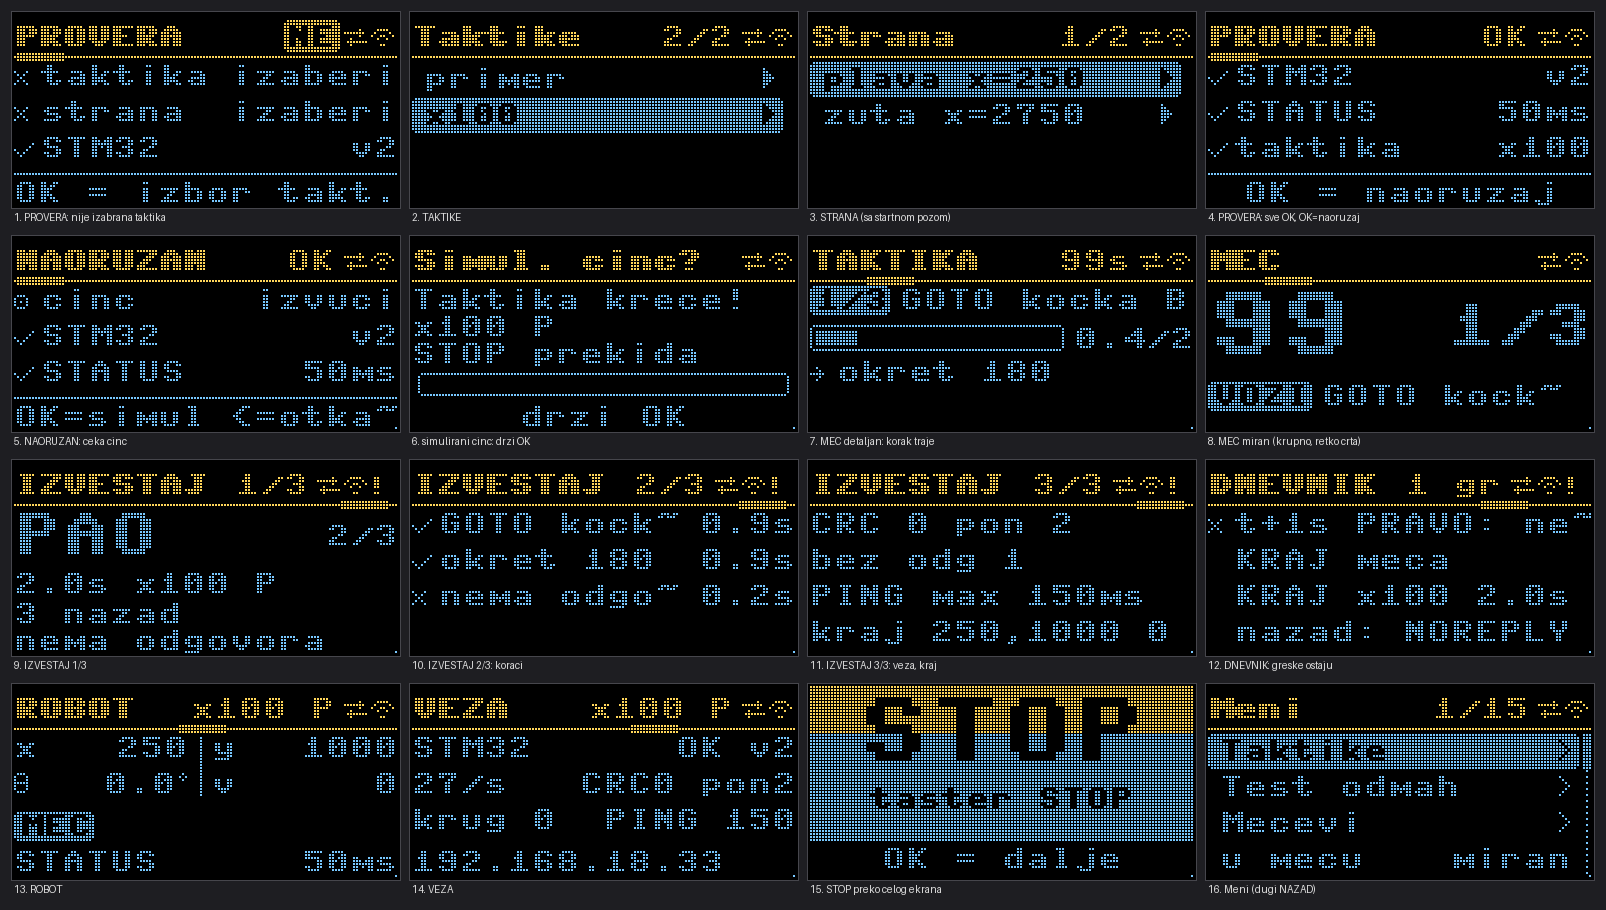
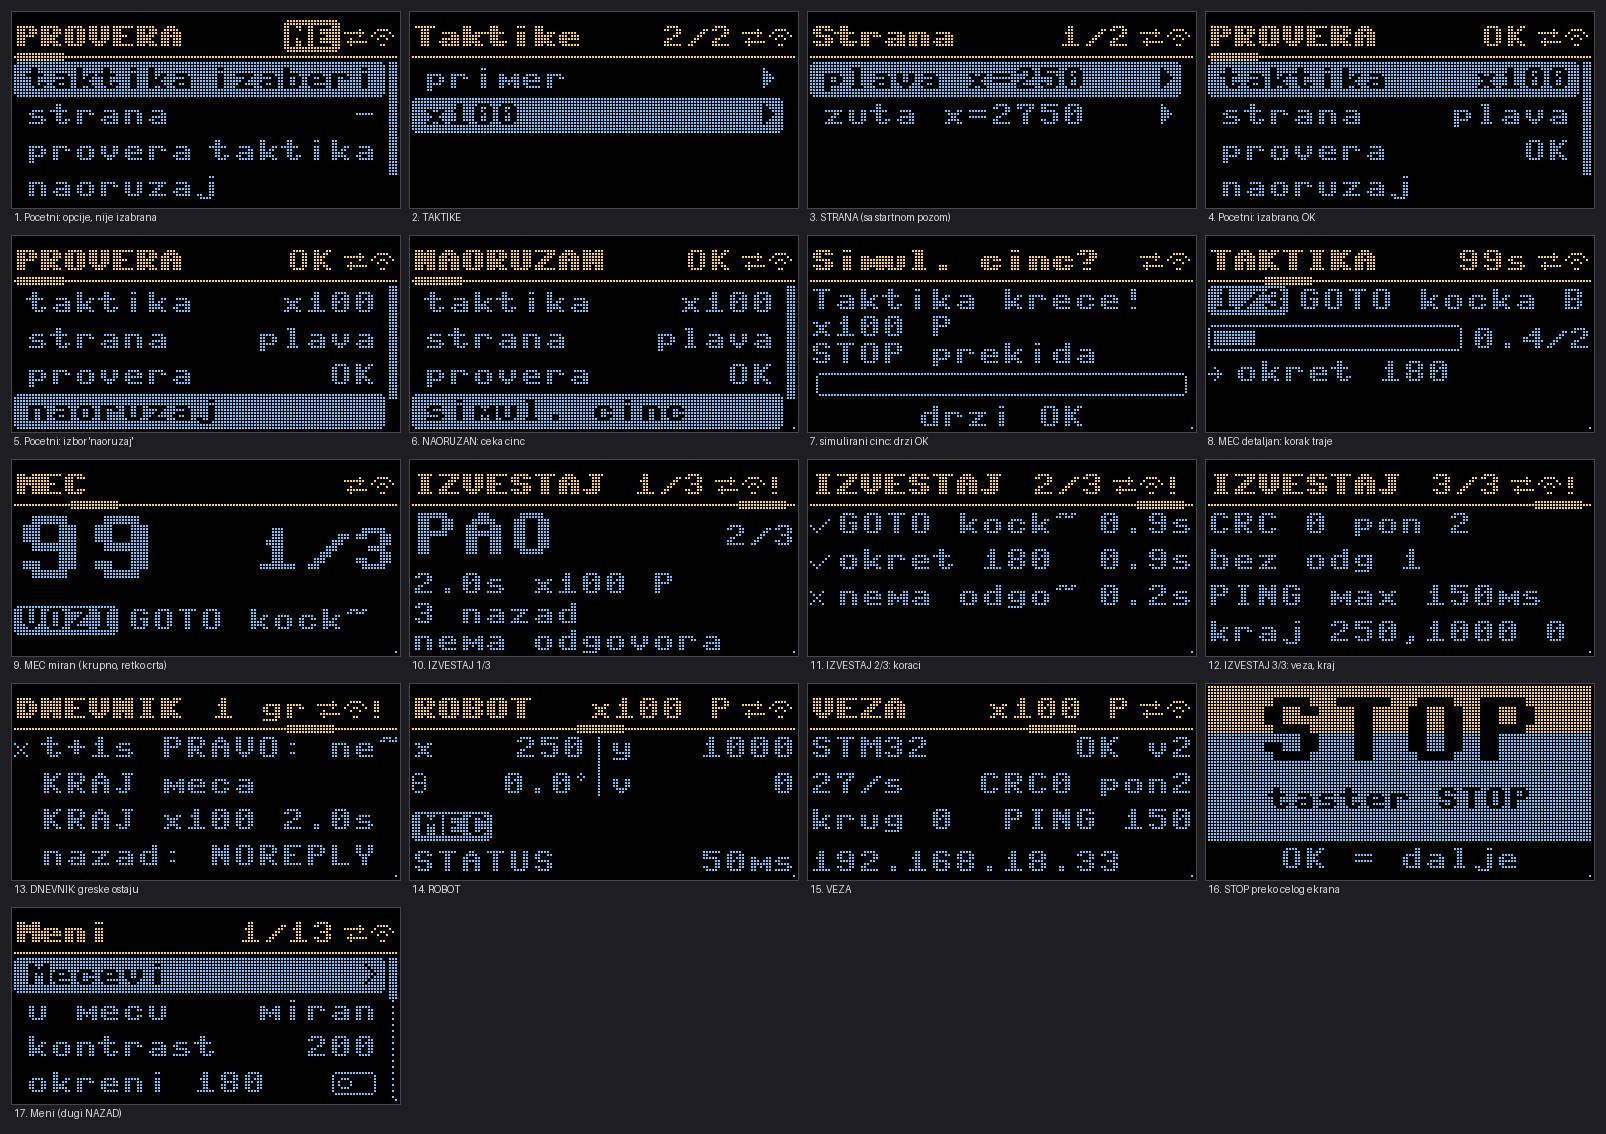
ESP: početni ekran sa opcijama (taktika, strana, provera, naoruzaj, test)
Taktika i strana se biraju na početnom ekranu, ne u meniju. Okret enkodera pomera izbor
opcije; posle poslednje ide na sledeće stranice, unazad se vraća na poslednju opciju.
Kad je robot naoružan: simulirani činč (drži OK) i otkaži; taktika i strana su zaključane.
Meni (dugi NAZAD) ima samo podešavanja i mečeve.

diff --git a/ESP32/lib/pages.py b/ESP32/lib/pages.py
@@ -64,55 +64,140 @@ class Page:
         pass
 
 
-# ---------------- PROVERA: može li da krene ----------------
+# ---------------- PROVERA: početni ekran sa opcijama ----------------
 
 class Provera(Page):
+    """Početni ekran: lista opcija (taktika, strana, provera, naoružaj, test). Okret enkodera
+    pomera izbor; posle poslednjeg reda ide na sledeću stranicu, unazad se vraća na poslednji red."""
     name = "PROVERA"
     live_ms = 300
 
+    def __init__(self, app):
+        super().__init__(app)
+        self.sel = self.top = 0
+
     def title(self):
-        m = self.app.match
-        return "NAORUZAN" if m.armed else "PROVERA"
+        return "NAORUZAN" if self.app.match.armed else "PROVERA"
 
     def right(self):
         ok = self.app.check()[0]
         return ("OK", False) if ok else ("NE", True)
 
-    def ok(self, u):
-        a = self.app
-        m = a.match
+    def rows(self):
+        """[(natpis, vrednost, radnja)] za trenutno stanje."""
+        a, m = self.app, self.app.match
+        ok, items = a.check()
+        bad = [i for i in items if i[0] == "ne"]
+        summary = bad[0][1] if bad else ("OK" if ok else "upoz")    # NE je u naslovu
+        side = a.st["sel_side"] or "-"
+        rows = [("taktika", a.st["sel_tactic"] or "izaberi", self.do_tactic),
+                ("strana", side, self.do_side),
+                ("provera", summary, self.do_check)]
         if m.armed:
-            u.push(ui.Confirm("Simul. cinc", ["Taktika krece!", "%s %s" % (m.tactic, T.SIDE.get(m.side, "")),
-                                              "STOP prekida"], lambda u2: m.simulate_cord()))
-        elif not a.st["sel_tactic"] or not a.st["sel_side"]:
-            u.push(a.tactics_menu())
+            rows += [("simul. cinc", "", self.do_cord), ("otkazi", "", self.do_cancel)]
+        else:
+            rows += [("naoruzaj", "", self.do_arm), ("test odmah", "", self.do_test)]
+        return rows
+
+    def scroll(self, n):
+        """Pomeri izbor; vraća koliko koraka "preliva" na susedne stranice (0 = ostali smo ovde)."""
+        last = len(self.rows()) - 1
+        s = self.sel + n
+        if s > last:
+            self.sel = last
+            return s - last
+        if s < 0:
+            self.sel = 0
+            return s
+        self.sel = s
+        if self.sel < self.top:
+            self.top = self.sel
+        elif self.sel >= self.top + 4:
+            self.top = self.sel - 3
+        return 0
+
+    def enter_from_end(self):
+        self.sel = len(self.rows()) - 1
+        self.top = max(0, self.sel - 3)
+
+    def ok(self, u):
+        rows = self.rows()
+        self.sel = min(self.sel, len(rows) - 1)
+        rows[self.sel][2](u)
+
+    def back(self, u):
+        if self.app.match.armed:
+            self.do_cancel(u)
+        return True
+
+    # ---- radnje ----
+
+    def locked(self, u):
+        if self.app.match.armed:
+            u.toast("zakljucano u mecu")
+            return True
+        return False
+
+    def do_tactic(self, u):
+        if not self.locked(u):
+            u.push(self.app.tactics_menu())
+
+    def do_side(self, u):
+        if not self.locked(u):
+            sides = ("plava", "zuta")
+            cur = self.app.st["sel_side"]
+            self.app.select(side=sides[(sides.index(cur) + 1) % 2] if cur in sides else sides[0])
+
+    def do_check(self, u):
+        items = self.app.check()[1]
+        u.push(ui.Menu("Provera", [ui.Info("%s %s" % ({"ok": "+", "ne": "x", "upoz": "!", "ceka": "o"}[st], lb),
+                                           (lambda v: lambda: v)(val)) for st, lb, val in items]))
+
+    def do_arm(self, u):
+        a = self.app
+        if not a.st["sel_tactic"] or not a.st["sel_side"]:
+            u.toast("izaberi taktiku")
         elif a.check()[0]:
             a.arm()
         else:
             u.toast("prvo popravi")
 
-    def back(self, u):
-        if self.app.match.armed:
-            self.app.match.cancel()
-            u.toast("otkazano")
-        return True
+    def do_test(self, u):
+        a = self.app
+        name, side = a.st["sel_tactic"], a.st["sel_side"]
+        if not name:
+            return u.toast("izaberi taktiku")
+        u.push(ui.Confirm("Test", ["%s %s" % (name, side or ""), "POKRECE MOTORE", "STOP prekida"],
+                          lambda u2: a.start_tactic(name, side)))
+
+    def do_cord(self, u):
+        m = self.app.match
+        u.push(ui.Confirm("Simul. cinc", ["Taktika krece!", "%s %s" % (m.tactic, T.SIDE.get(m.side, "")),
+                                          "STOP prekida"], lambda u2: m.simulate_cord()))
+
+    def do_cancel(self, u):
+        self.app.match.cancel()
+        u.toast("otkazano")
 
     def draw(self, u, fb, r, s):
-        ok, items = self.app.check()
-        for i, (st, label, val) in enumerate(items[:3]):
-            y = R1 + 12 * i
-            icon(fb, MARK[st], 0, y + 1)
-            fb.text(fit(label, 7), 9, y, 1)
-            text_right(fb, fit(val, 8), ui.W, y, 1)
-        m = self.app.match
-        if m.armed:
-            action_bar(fb, "OK=simul <=otkazi")
-        elif not self.app.st["sel_tactic"] or not self.app.st["sel_side"]:
-            action_bar(fb, "OK = izbor takt.")
-        elif ok:
-            action_bar(fb, "OK = naoruzaj")
-        else:
-            action_bar(fb, "popravi gore")
+        rows = self.rows()
+        self.sel = min(self.sel, len(rows) - 1)
+        for i in range(4):
+            k = self.top + i
+            if k >= len(rows):
+                break
+            label, val, _ = rows[k]
+            y = ui.HEAD + 12 * i
+            c = 1
+            if k == self.sel:
+                box(fb, 0, y, 124, 12, 1)
+                c = 0
+            fb.text(fit(label, 8 if val else 15), 4, y + 2, c)
+            if val:
+                text_right(fb, fit(val, 7), 121, y + 2, c)
+        if len(rows) > 4:                           # klizač
+            th = max(4, 48 * 4 // len(rows))
+            fb.fill_rect(125, ui.HEAD + (48 - th) * self.top // (len(rows) - 4), 3, th, 1)
 
 
 # ---------------- TAKTIKA: trenutni korak (u meču miran prikaz) ----------------
@@ -360,8 +445,20 @@ class Pages(Screen):
                 self.page = i
 
     def rotate(self, u, n):
-        self.page = (self.page + n) % len(self.list)
+        """Na početnom ekranu okret prvo pomera izbor opcije; posle poslednje ide na sledeću stranicu."""
         self.t_touch = ui.ticks_ms()
+        home = self.list[0]
+        if self.page == 0:
+            n = home.scroll(n)
+            if not n:
+                return
+            n = 1 if n > 0 else -1
+        new = (self.page + n) % len(self.list)
+        if new == 0 and n < 0:
+            home.enter_from_end()                    # unazad na početni: poslednja opcija
+        elif new == 0:
+            home.sel = home.top = 0
+        self.page = new
 
     def ok(self, u):
         self.t_touch = ui.ticks_ms()

diff --git a/ESP32/tests/host/test_ekran.py b/ESP32/tests/host/test_ekran.py
@@ -28,12 +28,14 @@ def test_kontrole_iste_svuda(app, tmp_path, monkeypatch):
     assert len(u.stack) == 1                            # u meču meni je zaključan
 
 
-def test_provera_izbor_taktike_i_strane(app, tmp_path, monkeypatch):
+def test_pocetni_ekran_opcije(app, tmp_path, monkeypatch):
+    """Početni ekran: opcije se biraju enkoderom; taktika se bira ovde, ne u meniju."""
     setup(app, tmp_path, monkeypatch)
-    u = app.ui
+    u, home = app.ui, app.pages.list[0]
+    assert [r[0] for r in home.rows()] == ["taktika", "strana", "provera", "naoruzaj", "test odmah"]
     ok, items = app.check()
     assert not ok and ("ne", "taktika", "izaberi") in items
-    u.input("ok")                                       # OK na PROVERA: izbor taktike
+    u.input("ok")                                       # taktika -> spisak
     assert u.top.title == "Taktike"
     u.input("ok")                                       # t
     assert u.top.title == "Strana"
@@ -43,11 +45,29 @@ def test_provera_izbor_taktike_i_strane(app, tmp_path, monkeypatch):
     assert app.st["sel_tactic"] == "t" and app.st["sel_side"] == "zuta"
     import json
     assert json.load(open(app.st.path))["sel_side"] == "zuta"     # pamti se posle restarta
+    u.input("rot", 1)
+    u.input("ok")                                       # strana: OK menja plava/zuta
+    assert app.st["sel_side"] == "plava"
+    u.input("rot", 2)
+    assert home.rows()[home.sel][0] == "naoruzaj"
     assert app.check()[0]
-    u.input("ok")                                       # OK = naoruzaj
+    u.input("ok")                                       # naoruzaj
     assert app.match.state == "NAORUZAN"
+    assert [r[0] for r in home.rows()][3:] == ["simul. cinc", "otkazi"]
     u.input("back")                                     # NAZAD = otkaži
     assert app.match.state == "NEMA"
+
+
+def test_okret_prelazi_sa_opcija_na_stranice(app, tmp_path, monkeypatch):
+    setup(app, tmp_path, monkeypatch)
+    u, home = app.ui, app.pages.list[0]
+    u.input("rot", 4)                                   # poslednja opcija
+    assert app.pages.page == 0 and home.sel == 4
+    u.input("rot", 1)                                   # dalje: sledeća stranica
+    assert app.pages.cur.name == "TAKTIKA"
+    u.input("rot", -1)                                  # nazad: poslednja opcija
+    assert app.pages.page == 0 and home.sel == 4
+    assert "Taktike" not in [i.label for i in app.settings_menu().items]   # nije u meniju
 
 
 def test_stop_preko_celog_ekrana(app, tmp_path, monkeypatch):
@@ -126,9 +146,10 @@ def test_okret_budi_i_izvrsi_se(app, tmp_path, monkeypatch):
     setup(app, tmp_path, monkeypatch)
     u = app.ui
     u.asleep = True
-    p0 = app.pages.page
+    home = app.pages.list[0]
+    s0 = home.sel
     u.input("rot", 1)
-    assert not u.asleep and app.pages.page == p0 + 1
+    assert not u.asleep and home.sel == s0 + 1          # okret je izvršen (pomerio izbor)
     u.asleep = True
     u.input("menu")
     assert len(u.stack) == 1                            # posle spavanja samo pali ekran

diff --git a/ESP32/lib/app.py b/ESP32/lib/app.py
@@ -325,20 +325,6 @@ class App:
         tac.current_side = self.side
         return Menu("Strana", items)
 
-    def test_menu(self):
-        """Pokretanje odmah, bez činča (opasno: drži OK)."""
-        name, side = self.st["sel_tactic"], self.st["sel_side"] or tac.REF_SIDE
-        items = []
-        if name:
-            items.append(Action("test %s %s" % (name, T.SIDE.get(side, "")),
-                                lambda u: (self.start_tactic(name, side), u.home()),
-                                ["%s (%s)" % (name, side), "POKRECE MOTORE", "STOP prekida"]))
-        if self.last and self.last[0] in self.tactics():
-            n, s = self.last
-            items.append(Action("ponovi %s %s" % (n, T.SIDE.get(s, "")), lambda u: (self.start_tactic(n, s), u.home()),
-                                ["%s (%s)" % (n, s), "POKRECE MOTORE", "STOP prekida"]))
-        return Menu("Test", items or [Info("izaberi takt.", lambda: "-")])
-
     def reports_menu(self):
         items = []
         for fn in self.reports():
@@ -358,8 +344,6 @@ class App:
             st.set("flip", v)
             self.apply_display()
         return Menu("Meni", [
-            ui.Sub("Taktike", self.tactics_menu),
-            ui.Sub("Test odmah", self.test_menu),
             ui.Sub("Mecevi", self.reports_menu),
             Choice("u mecu", [("miran", "miran"), ("ugasen", "ugasen"), ("detaljan", "detalj")],
                    lambda: st["screen_match"], lambda v: st.set("screen_match", v)),

diff --git a/ESP32/sim/render.py b/ESP32/sim/render.py
@@ -61,10 +61,11 @@ def page(name, title):
 
 
 run(400)
-page("PROVERA", "PROVERA: nije izabrana taktika")
+page("PROVERA", "Pocetni: opcije, nije izabrana")
 u.input("ok"); u.input("rot", 1); snap("TAKTIKE")
 u.input("ok"); snap("STRANA (sa startnom pozom)")
-u.input("ok"); run(300); snap("PROVERA: sve OK, OK=naoruzaj")
+u.input("ok"); run(300); snap("Pocetni: izabrano, OK")
+u.input("rot", 3); run(100); snap("Pocetni: izbor 'naoruzaj'")
 u.input("ok"); run(300); snap("NAORUZAN: ceka cinc")
 u.input("ok"); snap("simulirani cinc: drzi OK")
 u.hold(900); u.hold(0); run(100)

diff --git a/ESP32/tests/host/test_faza2.py b/ESP32/tests/host/test_faza2.py
@@ -126,14 +126,3 @@ def test_except_exception_ne_guta_stop(app, stm):
     run(app, 300)
     run_tactic(app, "t")
     assert app.running is None and any(l.startswith("PREKID") for l in app.log)
-
-
-def test_ponovi_poslednju(app, stm):
-    from runner import run_tactic
-    write(app, "t", "from tac import *\nlog('strana %s' % side())\n")
-    run(app, 300)
-    app.side = "zuta"
-    run_tactic(app, "t")
-    assert app.last == ("t", "zuta")
-    m = app.test_menu()
-    assert any(it.label == "ponovi t Z" for it in m.items)
